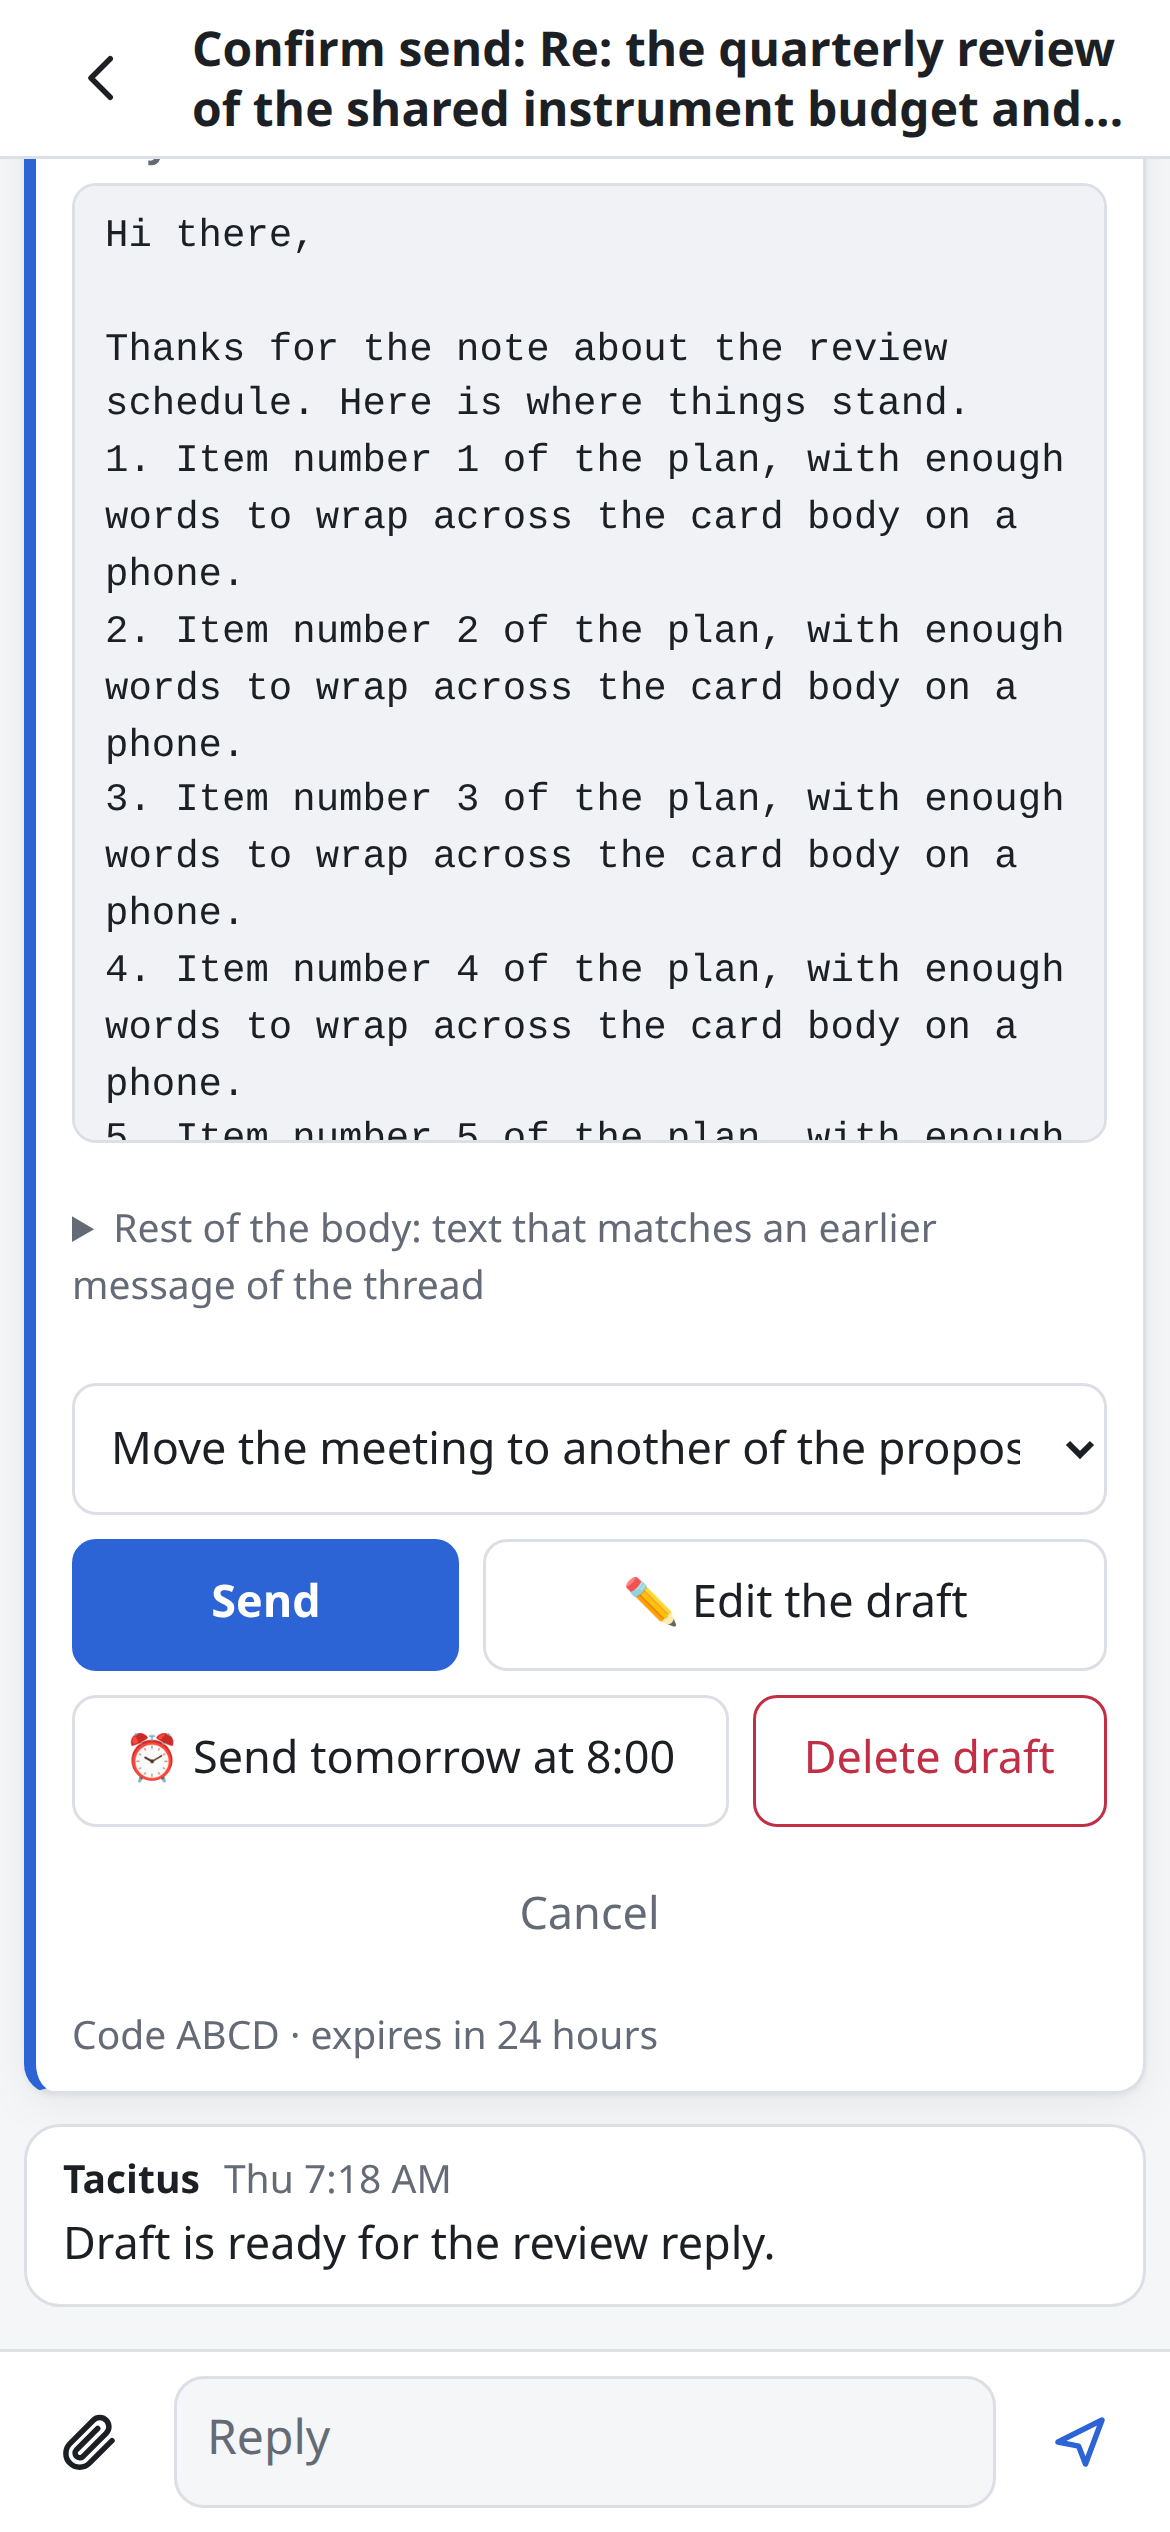
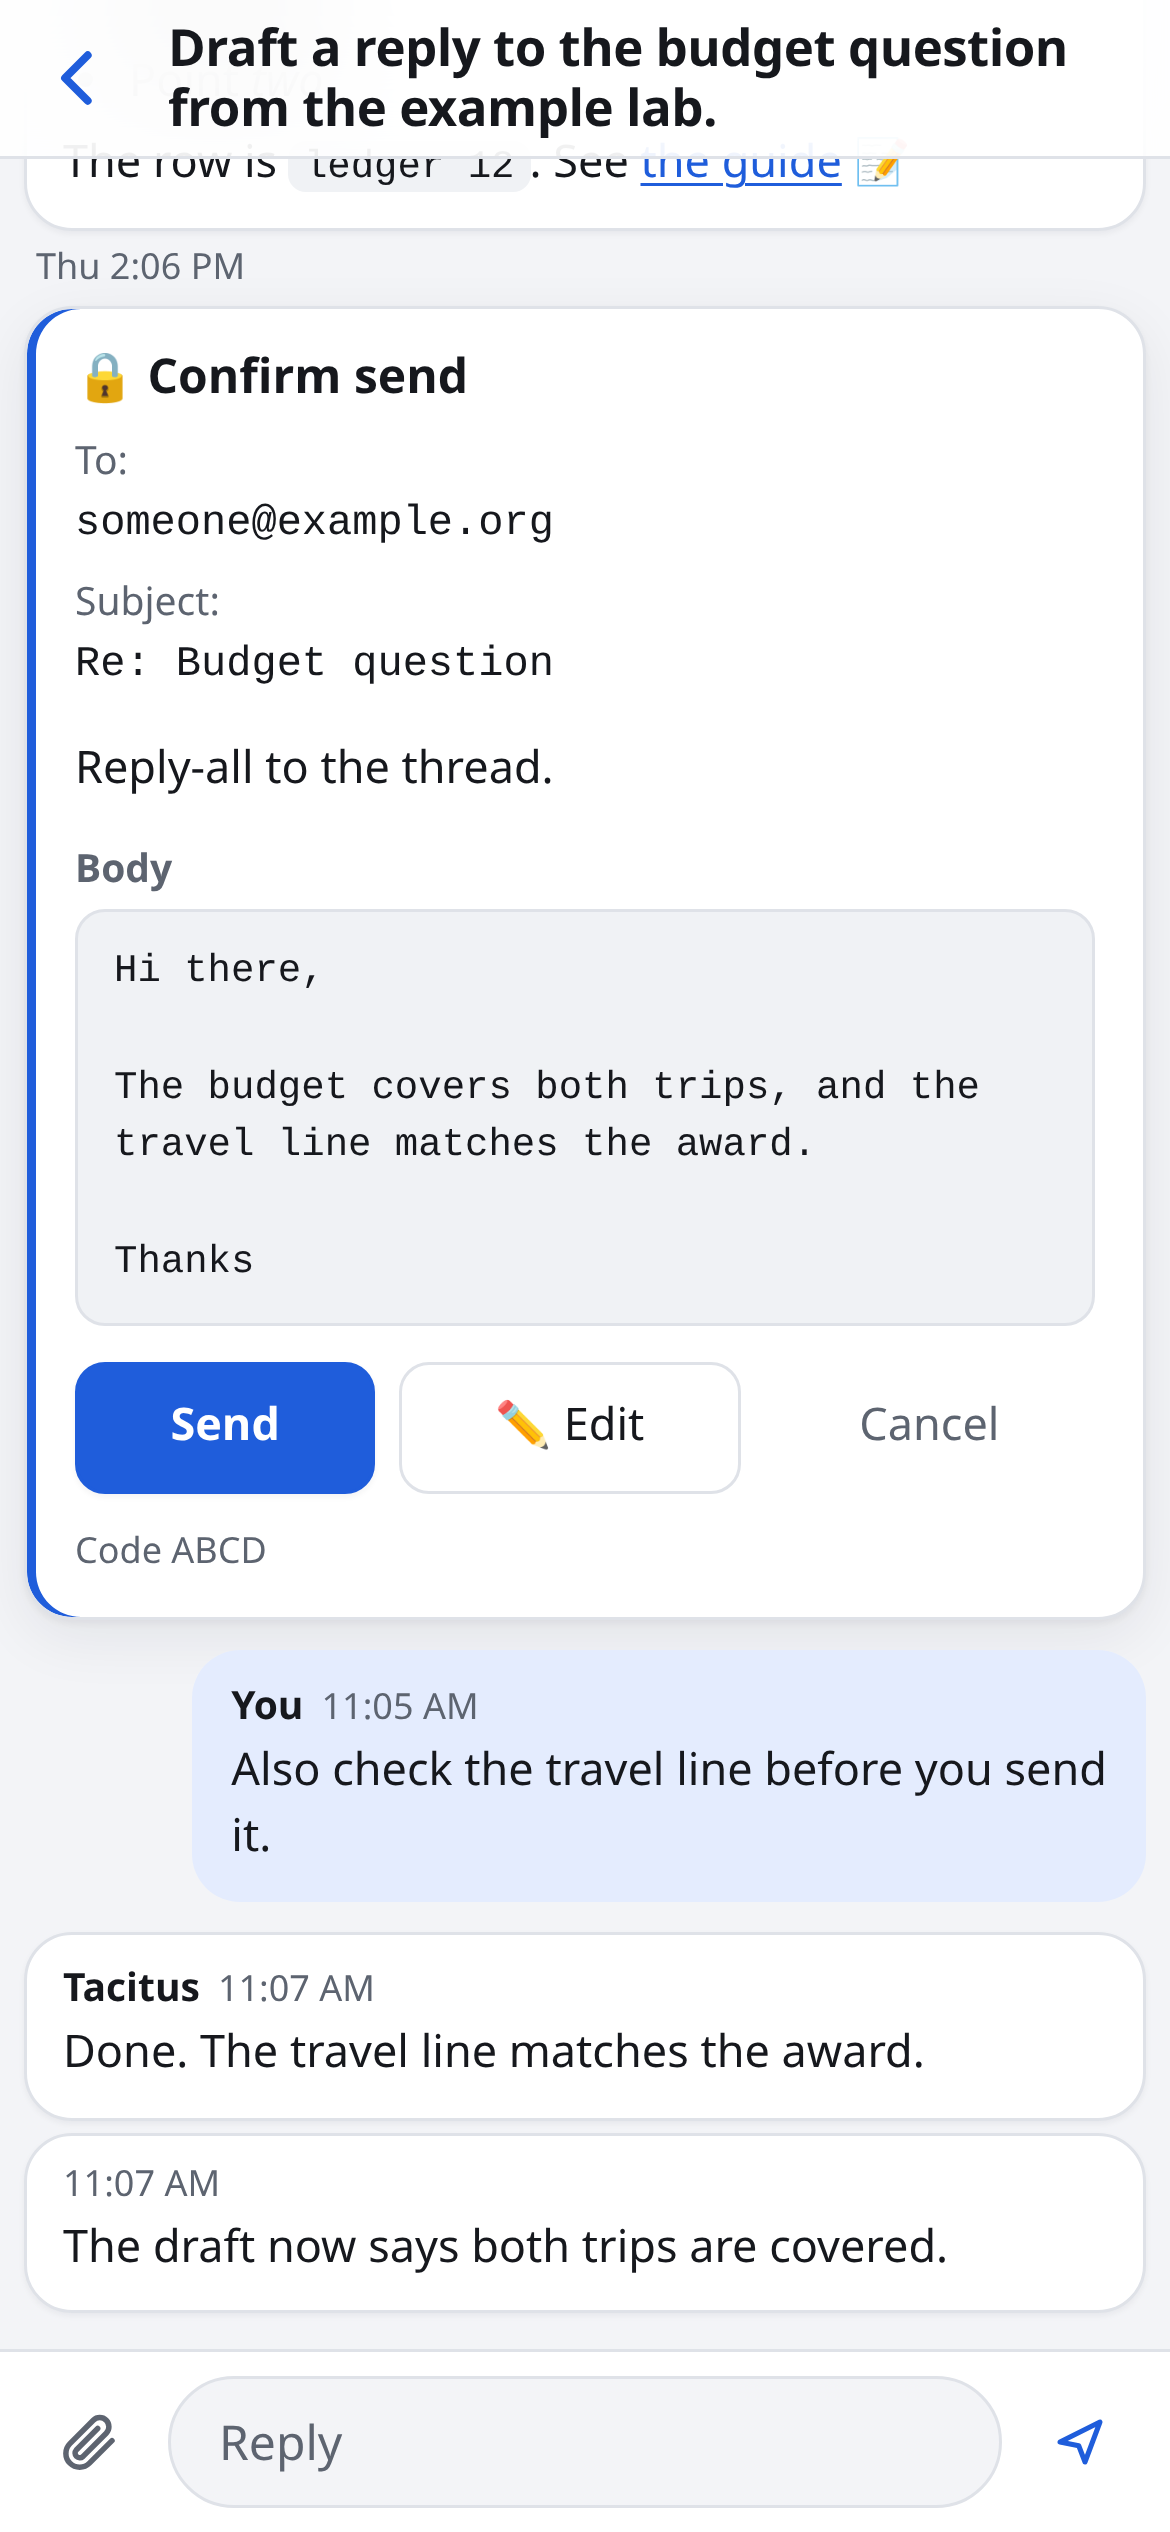
The site leads with the install: the web chat on the phone, anywhere
The install section moves from the foot of the page to right after the
hero: four steps in plain words (the installer, setup in the browser,
the app on the Home Screen, setting up the phone for off the network),
the requirements, the shell lines, and a fresh phone figure rendered
from the stub's made-up data. The navigation and the hero's first
button point at it. The README's figure is the same render.

The README, INSTALL.md and SETUP.md say where the chat work goes: new
chat features land in the web chat; Zulip and Slack keep working as they
are, and Zulip stays in the tree for a later setup with more than one
person in the room. The README's status table marks the web chat stable.

Claude-Session: https://claude.ai/code/session_019mbKhBPiEm9CX4NKUPXCTr

diff --git a/site/index.html b/site/index.html
@@ -4,7 +4,7 @@
 <meta charset="utf-8">
 <meta name="viewport" content="width=device-width, initial-scale=1, viewport-fit=cover">
 <title>Tacitus</title>
-<meta name="description" content="Tacitus is a self-hosted executive assistant. Real chat exchanges, names changed.">
+<meta name="description" content="Tacitus is a self-hosted executive assistant with its own chat on your phone. Real chat exchanges, names changed.">
 <link rel="preconnect" href="https://fonts.googleapis.com">
 <link rel="stylesheet" href="https://fonts.googleapis.com/css2?family=Fraunces:ital,opsz,wght@0,9..144,300..700;1,9..144,300..600&family=Source+Sans+3:ital,wght@0,400;0,600;1,400&family=JetBrains+Mono:wght@400;600&display=swap">
 <style>
@@ -167,11 +167,24 @@ section.feature .wrap { display: grid; grid-template-columns: minmax(0, 0.8fr) m
 .gate { display: grid; grid-template-columns: 22px minmax(0, 1fr); gap: 12px; align-items: start; color: var(--fg-2); font-size: 15.5px; }
 .gate .ic { font-family: var(--mono); color: var(--accent); }
 
-/* install + footer */
-.install { padding-block: 72px; }
-.install .wrap { display: grid; grid-template-columns: minmax(0, 1fr) minmax(0, 1fr); gap: 48px; align-items: center; }
-.install h2 { font-size: clamp(30px, 3.6vw, 44px); }
-.install p { margin-top: 16px; color: var(--fg-2); }
+/* install: the first section after the hero */
+.install { padding-block: 64px 72px; border-bottom: 1px solid var(--line); background: var(--bg-2); }
+.install .wrap { display: grid; grid-template-columns: minmax(0, 1.15fr) minmax(0, 0.85fr); gap: 56px; align-items: start; }
+.install h2 { font-size: clamp(30px, 3.8vw, 46px); line-height: 1.08; margin-top: 10px; }
+.install h2 em { font-style: italic; color: var(--accent); }
+.install .lede { margin-top: 18px; color: var(--fg-2); font-size: 17.5px; max-width: 36em; }
+.steps { margin: 26px 0 0; padding: 0; list-style: none; counter-reset: step; display: grid; gap: 14px; }
+.steps li { position: relative; padding-left: 44px; color: var(--fg-2); font-size: 15.5px; line-height: 1.5; }
+.steps li::before { counter-increment: step; content: counter(step); position: absolute; left: 0; top: 1px; width: 28px; height: 28px; border-radius: 50%; display: grid; place-items: center; font-family: var(--mono); font-size: 12.5px; color: var(--accent); border: 1px solid color-mix(in oklab, var(--accent) 55%, var(--line)); background: var(--bg); }
+.steps b { color: var(--fg); font-weight: 600; }
+.steps i { font-style: normal; font-family: var(--mono); font-size: 13.5px; background: var(--bg-3); padding: 1px 6px; border-radius: 4px; }
+.install .alt { margin-top: 22px; color: var(--muted); font-size: 14.5px; max-width: 36em; }
+.how { display: grid; gap: 22px; justify-items: center; }
+.shot { margin: 0; display: grid; gap: 10px; justify-items: center; }
+.shot img { display: block; width: 100%; max-width: 300px; height: auto; border-radius: 34px; border: 6px solid var(--bg-3); box-shadow: 0 24px 60px rgba(0, 0, 0, .35), 0 2px 8px rgba(0, 0, 0, .2); background: var(--bg-3); }
+.shot figcaption { font-family: var(--mono); font-size: 12.5px; color: var(--muted); text-align: center; }
+.how pre.sh { width: 100%; }
+.install .docs { color: var(--fg-2); font-size: 14.5px; line-height: 1.6; }
 pre.sh { margin: 0; background: var(--bg-2); border: 1px solid var(--line); border-radius: 10px; padding: 16px 18px; font-family: var(--mono); font-size: 13.5px; line-height: 1.6; overflow-x: auto; color: var(--fg); }
 pre.sh .c { color: var(--muted); }
 .req { margin-top: 18px; display: grid; gap: 6px; font-size: 15px; color: var(--fg-2); }
@@ -181,6 +194,8 @@ footer .wrap { display: flex; flex-wrap: wrap; gap: 10px 28px; justify-content: 
 /* responsive */
 @media (max-width: 960px) {
   .hero .wrap, section.feature .wrap, .trust .wrap, .install .wrap { grid-template-columns: minmax(0, 1fr); gap: 32px; }
+  .how { grid-template-columns: minmax(0, 1fr); }
+  .shot img { max-width: 260px; }
   .rail { position: static; }
   .day .wrap { grid-template-columns: repeat(2, minmax(0, 1fr)); }
   .day .slot { border-right: 0; border-bottom: 1px solid var(--line); padding-left: 0 !important; }
@@ -201,6 +216,7 @@ footer .wrap { display: flex; flex-wrap: wrap; gap: 10px 28px; justify-content: 
   <div class="wrap">
     <a class="brand" href="#top">TACITUS</a>
     <nav aria-label="Sections">
+      <a href="#install">Install</a>
       <a href="#scheduling">Scheduling</a>
       <a href="#inbox">Inbox</a>
       <a href="#documents">Documents</a>
@@ -208,7 +224,6 @@ footer .wrap { display: flex; flex-wrap: wrap; gap: 10px 28px; justify-content: 
       <a href="#projects">Projects</a>
       <a href="#rules">Rules</a>
       <a href="#trust">Trust</a>
-      <a href="#install">Install</a>
     </nav>
   </div>
 </header>
@@ -223,8 +238,8 @@ footer .wrap { display: flex; flex-wrap: wrap; gap: 10px 28px; justify-content: 
       <p class="lede">Tacitus takes the friction out of the places a human executive assistant would be great: the inbox, the calendar, the forms, the follow-ups, the files. It reads your mail and calendars, drafts in your voice, finds meeting times on your real calendars, and tracks what you owe to whom. You talk to it in a private chat.</p>
       <p class="principle">A human EA cannot make decisions on behalf of the executive. Neither can Tacitus. That is the design principle: nothing is sent, booked or deleted until you press the button.</p>
       <div class="cta">
-        <a class="primary" href="https://github.com/arpg/tacitus">Read the code on GitHub</a>
-        <a class="ghost" href="#scheduling">See it work &darr;</a>
+        <a class="primary" href="#install">Install it &darr;</a>
+        <a class="ghost" href="https://github.com/arpg/tacitus">Read the code on GitHub</a>
       </div>
       <p class="fact">Every exchange on this page is from one professor's live install, March to October 2026.<br>Names and places are changed. The words are not.</p>
     </div>
@@ -247,6 +262,42 @@ footer .wrap { display: flex; flex-wrap: wrap; gap: 10px 28px; justify-content: 
           <p>Which of the 3 possible slots do you want me to add? You can also say "overbook all" or "keep all."</p>
         </div></div>
       </div>
+    </div>
+  </div>
+</section>
+
+<section class="install" id="install">
+  <div class="wrap">
+    <div>
+      <p class="eyebrow">Install</p>
+      <h2>An hour on a box you own. <em>Then it lives on your phone.</em></h2>
+      <p class="lede">Tacitus serves its own chat. There is no chat server to run and no account with anyone. You open it on your phone and add it to the Home Screen; from then on it works wherever you are: at home over your private network, anywhere else through a relay that carries only sealed frames and can read none of them.</p>
+      <ol class="steps">
+        <li><b>Run the installer</b> on an always-on Linux or macOS machine. It checks what is missing, installs Claude Code and opens setup.</li>
+        <li><b>Answer setup from your phone or laptop.</b> One screen per topic, in plain words, until the health check is green. It stops only for a password, a browser sign-in or your phone.</li>
+        <li><b>Open the chat and add it to your Home Screen.</b> It runs as an app. New cards, messages and alerts arrive as notifications while it is closed.</li>
+        <li><b>Leave the house.</b> Tap <i>Set up this phone</i> once. Keys are made on the phone; you approve it by matching a six-digit code; the app checks every file it runs against your bot's signature.</li>
+      </ol>
+      <div class="req">
+        <span>&middot; A Claude Pro or Max subscription, or a ChatGPT subscription that enables Codex</span>
+        <span>&middot; A Microsoft 365 account and an app registration from your IT group (the longest wait)</span>
+        <span>&middot; Optionally, Google accounts for calendars and Gmail drafts</span>
+        <span>&middot; Optionally, a GPU and an open model for the mail</span>
+      </div>
+      <p class="alt">Already run Zulip or Slack? Tacitus works there too, and the web chat can run beside Zulip. New chat features land in the web chat; Zulip stays in the tree for a later setup with more than one person in the room.</p>
+    </div>
+    <div class="how">
+      <figure class="shot">
+        <img src="webchat-phone.png" alt="The web chat on a phone: a draft reply on a card with its Send, Edit and Cancel buttons" width="300" height="649" loading="lazy">
+        <figcaption>A draft reply on its card. Nothing goes out until you press Send.</figcaption>
+      </figure>
+<pre class="sh"><span class="c"># on the machine that will run it</span>
+git clone https://github.com/arpg/tacitus.git ea-system
+cd ea-system &amp;&amp; ./install.sh
+<span class="c"># ./install.sh --check only lists what is missing.
+# Updates arrive on their own: a signed release,
+# applied hourly when nothing is running.</span></pre>
+      <p class="docs"><a href="https://github.com/arpg/tacitus/blob/main/docs/INSTALL.md">The install guide</a> walks through it, with <a href="https://github.com/arpg/tacitus/blob/main/docs/INSTALL.md#your-steps">the twelve steps that are yours</a>. <a href="https://github.com/arpg/tacitus/blob/main/docs/webchat-relay.md">How the relay works</a>, and what a dishonest one could and could not do.</p>
     </div>
   </div>
 </section>
@@ -559,30 +610,6 @@ footer .wrap { display: flex; flex-wrap: wrap; gap: 10px 28px; justify-content: 
 </section>
 
 <!-- ================= INSTALL ================= -->
-<section class="install" id="install">
-  <div class="wrap">
-    <div>
-      <p class="eyebrow">Install</p>
-      <h2>An always-on Linux or macOS box, and about an hour.</h2>
-      <p>Start with the <b>email</b> profile: triage, the ledger, drafts in your voice, meeting times in the morning report. Move to <b>assistant</b> when you want the chat rooms and the buttons.</p>
-      <div class="req">
-        <span>&middot; A Claude Pro or Max subscription, or a ChatGPT subscription that enables Codex</span>
-        <span>&middot; A Microsoft 365 account and an app registration from your IT group (the longest wait)</span>
-        <span>&middot; Optionally, Google accounts for calendars and Gmail drafts</span>
-        <span>&middot; Optionally, a GPU and an open model for the mail</span>
-      </div>
-    </div>
-    <div>
-<pre class="sh"><span class="c"># on the machine that will run it</span>
-git clone https://github.com/arpg/tacitus.git ea-system
-cd ea-system &amp;&amp; ./install.sh
-<span class="c"># checks prerequisites, installs Claude Code,
-# then opens /setup: one question at a time,
-# until the health check passes.</span></pre>
-    </div>
-  </div>
-</section>
-
 </main>
 
 <footer>

diff --git a/README.md b/README.md
@@ -62,12 +62,14 @@ every confirmation card. Each project gets a room of its own.
 | "open a channel for the field-trial proposal" | Creates the project room and posts the project's context |
 | "never show me DOE PAMS notices" | Records the rule in your words; every later briefing obeys it |
 
-If you already run Zulip, the EA can live there instead, or the web chat
-can run beside it: each post appears in both, and you answer in either.
-Slack also works if you accept that Slack stores the conversation. Off
-the tailnet, a phone reaches the web chat through a relay that sees only
-ciphertext ([docs/webchat-relay.md](docs/webchat-relay.md)). The web
-chat is new: the maintainer's install runs it beside Zulip, and
+Off the tailnet, a phone reaches the web chat through a relay that sees
+only ciphertext ([docs/webchat-relay.md](docs/webchat-relay.md)). If you
+already run Zulip, the EA can live there instead, or the web chat can
+run beside it: each post appears in both, and you answer in either.
+Slack also works if you accept that Slack stores the conversation. New
+chat features land in the web chat; Zulip and Slack keep working as they
+are, and Zulip stays in the tree for a later setup with more than one
+person in the room.
 [docs/INSTALL.md](docs/INSTALL.md#choosing-a-chat-platform) compares the
 three.
 
@@ -198,7 +200,7 @@ tagged and without attendees.
 | The review card | Stable | One card per draft with Send, Edit, Handled, Sent myself and Cancel. The text you approve is the text that goes out. Outlook and Gmail share the flow. |
 | Scheduling | Stable | An OR-tools solver over Outlook and your Google calendars. Your rules live as recurring events on a calendar you edit in your calendar app. Detects reschedule requests within minutes. Fills When2Meet, Doodle and similar polls after you see the conflicts. |
 | Rooms and memory | Stable | One session per conversation and one specialist per project room. A project store holds people, filed mail and a decision journal. Rules you state in chat are stored in your words and applied wherever they fit. |
-| Web chat | Beta | The bot's own chat, installed on your phone as an app, with notifications and a relay for off the tailnet. Runs alone or beside Zulip. See [docs/webchat.md](docs/webchat.md). |
+| Web chat | Stable | The bot's own chat, installed on your phone as an app, with notifications and a relay for off the tailnet. Runs alone or beside Zulip. The chat that new features land in first. See [docs/webchat.md](docs/webchat.md). |
 | Plugins | Stable | Personal and institution features live in plugins with declared capabilities, outside the core. See [docs/plugins.md](docs/plugins.md). |
 | Local model for mail | Beta | Reads and summarizes mail, writes drafts, and posts digests on a model you host. See [docs/remote-llm.md](docs/remote-llm.md). |
 | Letters of recommendation | Beta | Finds the matching letter in your files, uploads it to the portal, then reports. It matches by student name, so check that the letter fits the program. |

diff --git a/docs/INSTALL.md b/docs/INSTALL.md
@@ -189,8 +189,10 @@ The web chat can also run beside Zulip (shadow mode): each post appears
 in both, and you answer in either. Moving between Zulip and Slack is one
 config key and a restart ([docs/zulip-switch.md](zulip-switch.md)).
 
-The web chat is new: the maintainer's install runs it beside Zulip. On
-its own it carries the same traffic: the briefings, the digests and the
+New chat features land in the web chat. Zulip and Slack keep working as
+they are and get fixes, not new features; Zulip stays in the tree for a
+later setup with more than one person in the room. On its own the web
+chat carries the same traffic: the briefings, the digests and the
 plugins' posts land in the `ea` channel, and the doctor checks its
 settings. It has no scheduling channel: you ask for a meeting in the
 `ea` channel, as on Zulip with no scheduling stream.

diff --git a/docs/SETUP.md b/docs/SETUP.md
@@ -488,8 +488,9 @@ they post to Zulip and are mirrored.
 
 The `assistant` profile talks to you through a chat platform, and
 `chat.frontend` in `ea-config.json` names it (`"web"`, `"zulip"` or
-`"slack"`; an install with no `chat` block runs Slack). Use Zulip if you
-already run it, or if you want the scheduling stream: it runs on the
+`"slack"`; an install with no `chat` block runs Slack). The web chat
+above is where new features land; Zulip keeps working as it is. Use it
+if you already run it, or if you want the scheduling stream: it runs on the
 EA's machine in Docker and is reached over your tailnet, so every
 message, file and confirmation card stays on that machine, and the
 [web chat](#web-chat) can run beside it. The comparison is the
